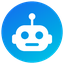
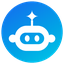
design(tabs): a different robot on the raised AI button — visor, headphones and a spark antenna

diff --git a/DESIGN.md b/DESIGN.md
@@ -45,7 +45,7 @@ iOS (flags on) is a glass-on-colour system.
 - **Cards** are frosted panes, not real glass (a native glass view per list row is too heavy): `glassFill` + `glassLine`, a short bright
   top sheen, no shadow (a shadow would show through the translucent fill). Card-shaped surfaces that are not `<Card>` (rows, panels,
   inputs) use the same two tokens; `surface` stays for opaque things (thumbs, sheets' content). Do not nest cards.
-- The tab bar is the system `NativeTabs` bar; the app's theme is handed to iOS (`Appearance.setColorScheme`) so it matches. The AI tab is a raised button: its slot in the system bar is an empty image, and `AiRaisedButton` stands in it — a brand-gradient disc with a white robot head (no text) (`assets/tabs/ai-orb*.png`) rising above the bar with no caption and a soft ring that breathes out every few seconds (off with Reduce Motion). The AI tab is always the middle slot (an empty disabled `gap` slot beside it when the tab count is even), so the button is centred on the screen; its height constants are at the top of the file. Glows, aurora and glass spheres were tried and dropped as too flashy for the calm, exact tone.
+- The tab bar is the system `NativeTabs` bar; the app's theme is handed to iOS (`Appearance.setColorScheme`) so it matches. The AI tab is a raised button: its slot in the system bar is an empty image, and `AiRaisedButton` stands in it — a brand-gradient disc with a white visor-and-headphones robot head with a spark antenna (no text) (`assets/tabs/ai-orb*.png`) rising above the bar with no caption and a soft ring that breathes out every few seconds (off with Reduce Motion). The AI tab is always the middle slot (an empty disabled `gap` slot beside it when the tab count is even), so the button is centred on the screen; its height constants are at the top of the file. Glows, aurora and glass spheres were tried and dropped as too flashy for the calm, exact tone.
 
 ## Materials (Android — Material 3 Expressive)
 
